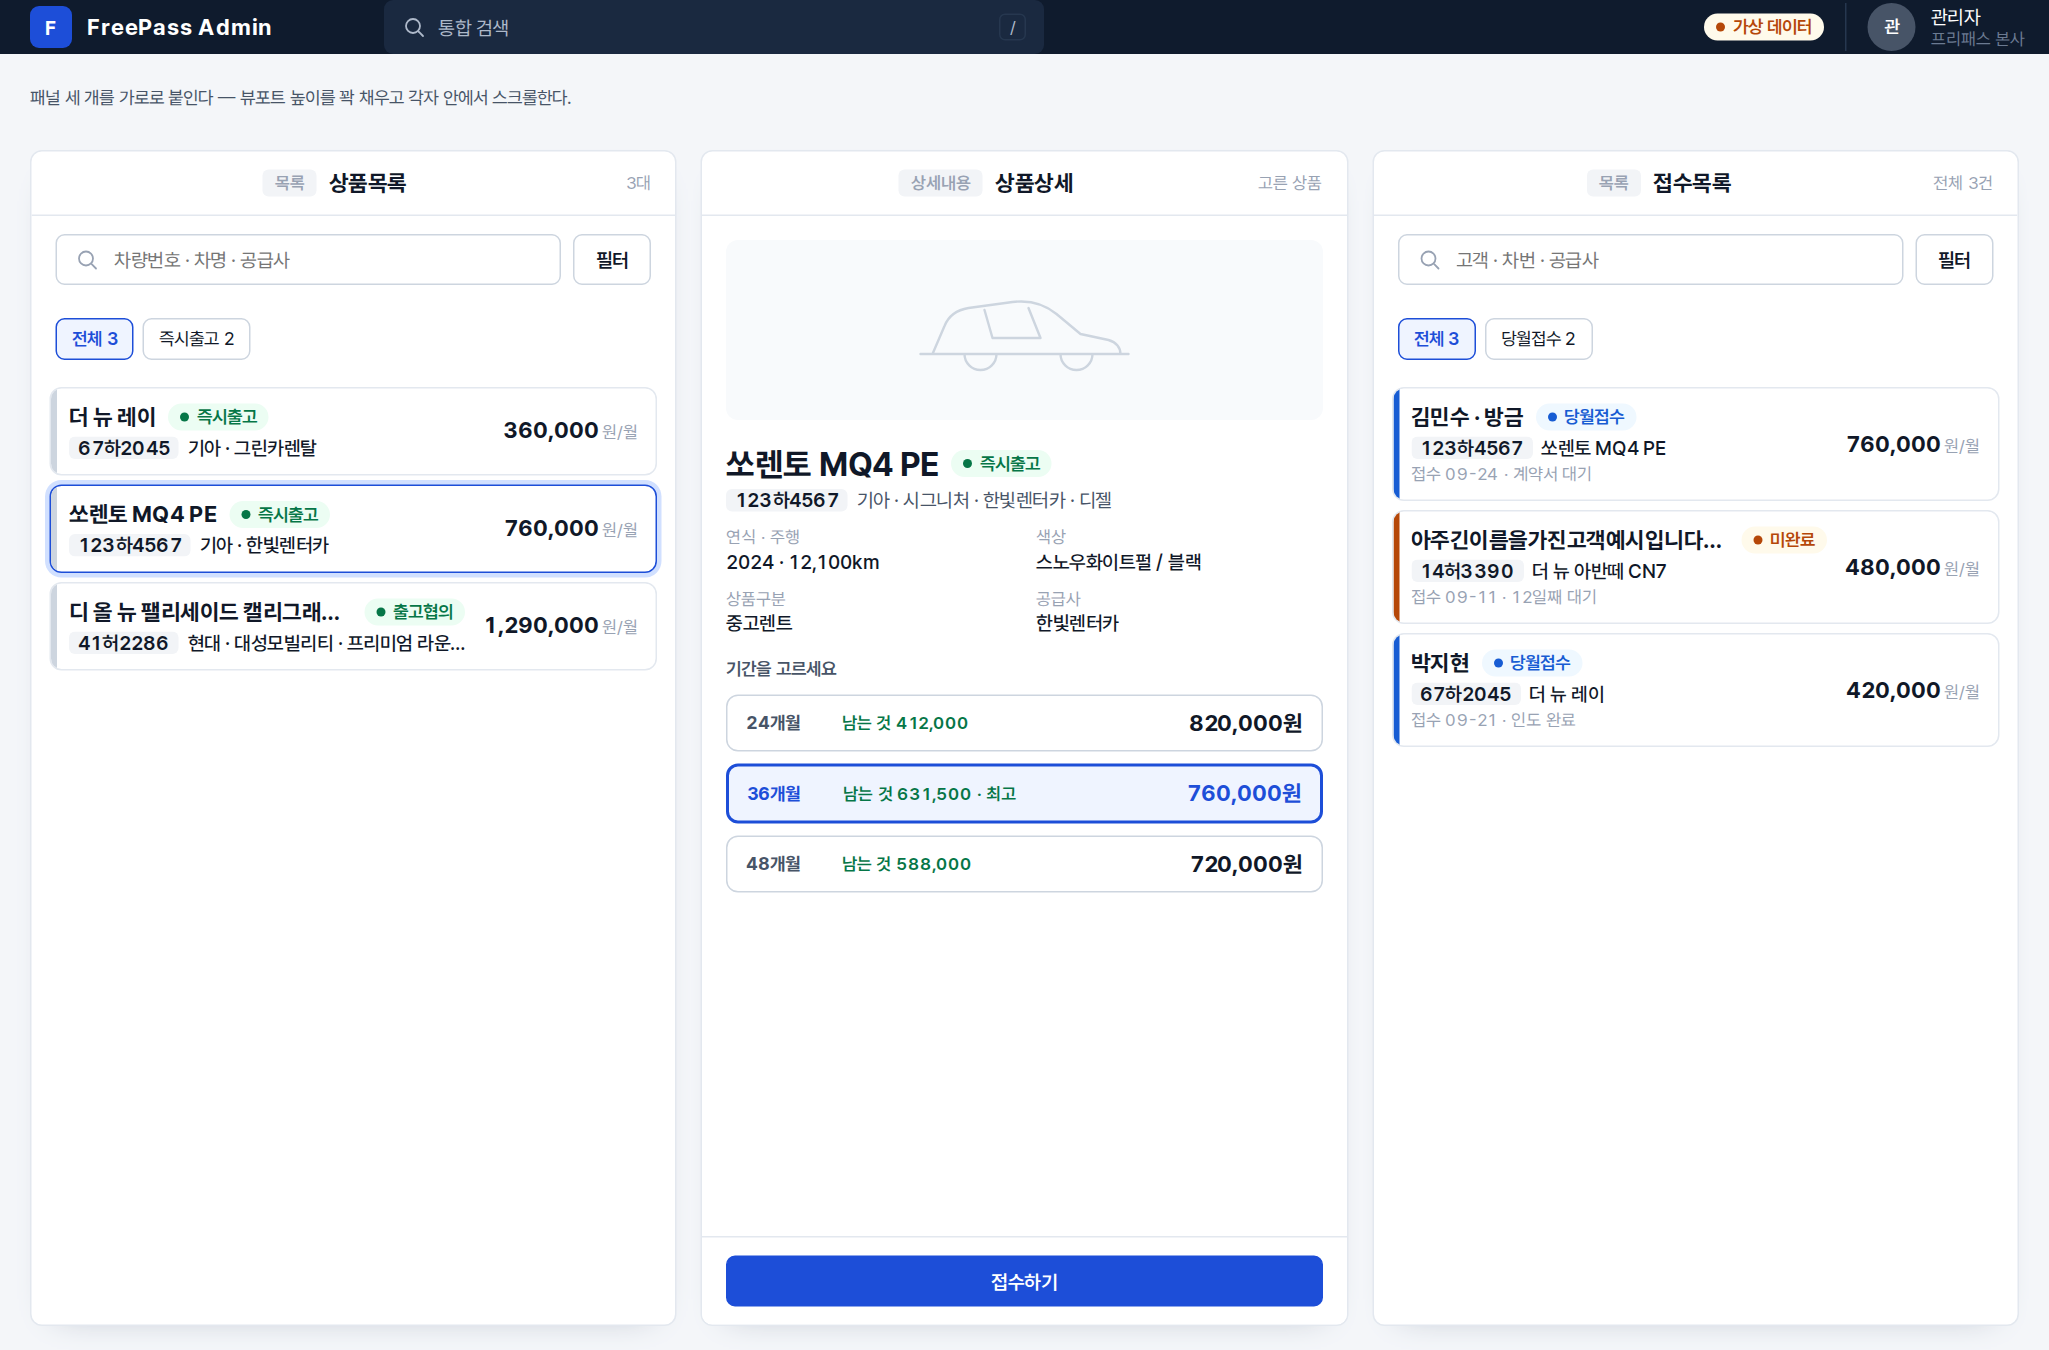
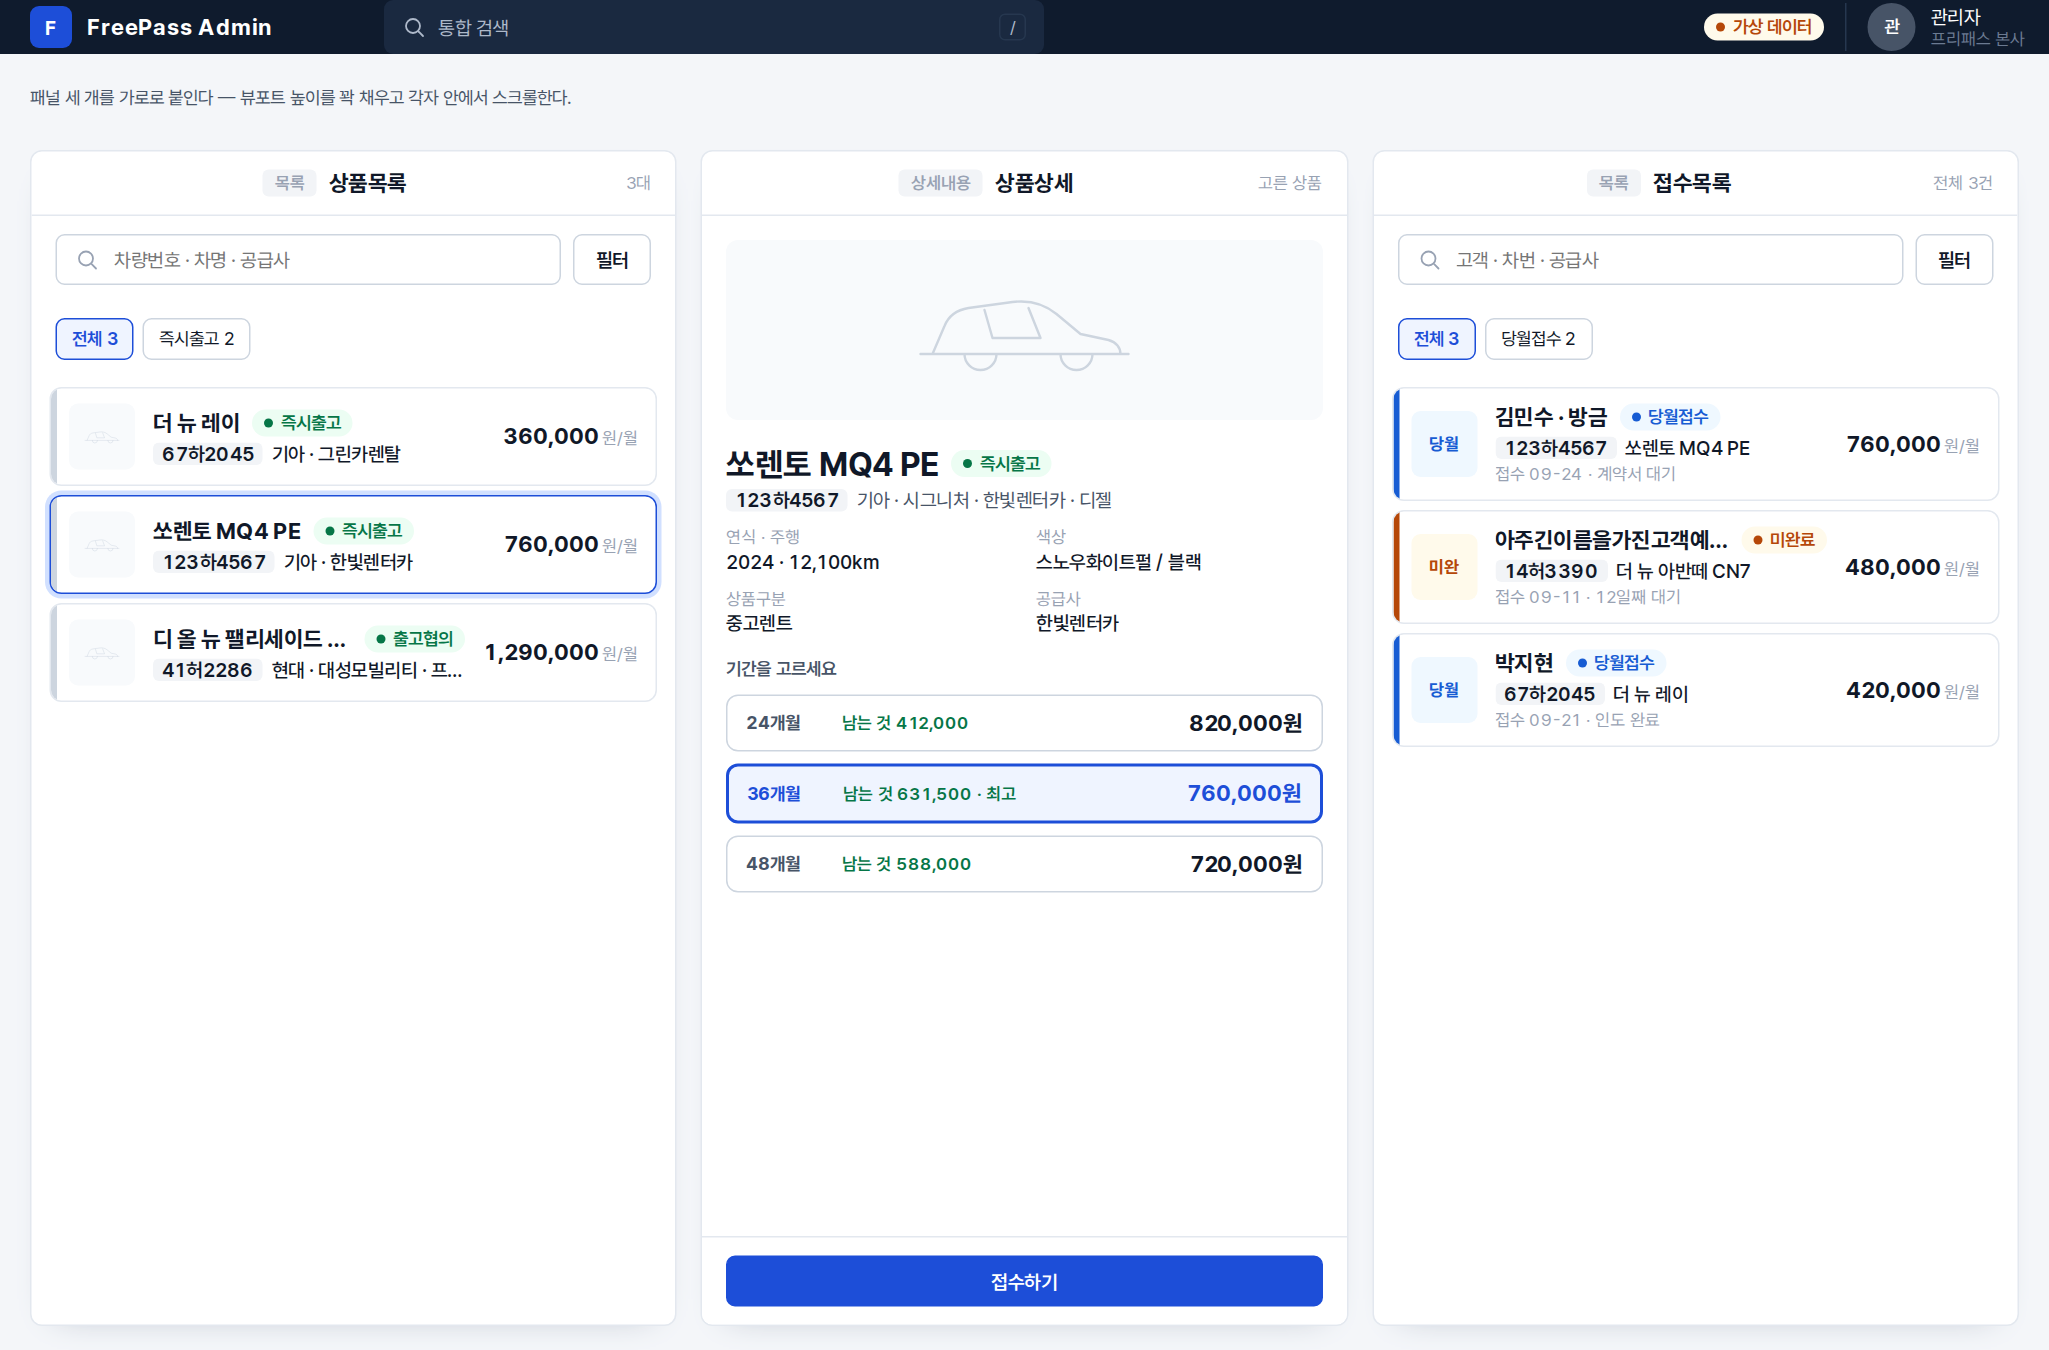
좁은 목록 카드에 썸네일 추가 — 상태 · 분류를 색으로 직관적으로
대표 지시 「차량사진 썸네일이랑 접수목록 정산목록 이런애들은 그 썸네일 쪽에
상태나 분류값 직관적으로」 반영. erp-panel--compact 카드에 44px 정사각
erp-rowcard-thumb 를 추가했다. 상품처럼 사진이 있는 대상은 차 아이콘,
접수 · 정산처럼 사진이 없는 대상은 새 아이콘을 만들지 않고 뱃지와 같은
톤 색(data-tone)을 썸네일에 칠하고 짧은 상태 글자를 넣어 색만 보고도
상태를 훑을 수 있게 했다.

Claude-Session: https://claude.ai/code/session_01VHqvSXhUy82o1cFFrYMP3F

Changed region(s): [[0.0, 0.28, 0.3436, 0.5289], [0.6872, 0.28, 0.8433, 0.56]]

diff --git a/design/erp-standard/reference/side-by-side.html b/design/erp-standard/reference/side-by-side.html
@@ -31,15 +31,15 @@
     <form class="erp-searchbar" data-region="filter" role="search"><label class="erp-search"><svg viewBox="0 0 24 24"><circle cx="11" cy="11" r="7"/><path d="m21 21-4.3-4.3"/></svg><input placeholder="차량번호 · 차명 · 공급사" aria-label="검색"></label><details class="erp-filter-more"><summary class="erp-btn">필터</summary></details></form>
     <div class="erp-toolbar" data-region="grid-toolbar"><div class="erp-facet-opts" role="group" aria-label="퀵 필터"><button class="erp-facet-opt" type="button" aria-pressed="true">전체 3</button><button class="erp-facet-opt" type="button" aria-pressed="false">즉시출고 2</button></div></div>
     <div class="erp-panel-body"><div class="erp-rowcards"><article class="erp-rowcard erp-rowcard--no-steps">
-    <div class="erp-rowcard-id"><h3 class="erp-rowcard-title"><a class="erp-rowcard-link" href="#">더 뉴 레이</a><span class="erp-badge erp-badge--ok">즉시출고</span></h3><div class="erp-rowcard-car"><b>67하2045</b>기아 · 그린카렌탈</div></div>
+    <div class="erp-rowcard-thumb"><svg viewBox="0 0 120 60" aria-hidden="true"><path d="M8 42h104M14 42l6-14c2-5 6-8 12-9l22-3c8-1 16 1 22 6l12 10 14 3c4 1 6 4 6 7M30 42a8 8 0 1 0 16 0M78 42a8 8 0 1 0 16 0M40 20l4 14h24l-6-15"/></svg></div><div class="erp-rowcard-id"><h3 class="erp-rowcard-title"><a class="erp-rowcard-link" href="#">더 뉴 레이</a><span class="erp-badge erp-badge--ok">즉시출고</span></h3><div class="erp-rowcard-car"><b>67하2045</b>기아 · 그린카렌탈</div></div>
     <dl class="erp-rowcard-facts"><div><dt>상품구분</dt><dd>중고렌트</dd></div><div><dt>기간</dt><dd>36개월</dd></div></dl>
     <div class="erp-rowcard-amount"><strong>360,000<small>원/월</small></strong></div><svg class="erp-rowcard-go" viewBox="0 0 24 24" aria-hidden="true"><path d="m9 6 6 6-6 6"/></svg>
   </article><article class="erp-rowcard erp-rowcard--no-steps" aria-current="true">
-    <div class="erp-rowcard-id"><h3 class="erp-rowcard-title"><a class="erp-rowcard-link" href="#">쏘렌토 MQ4 PE</a><span class="erp-badge erp-badge--ok">즉시출고</span></h3><div class="erp-rowcard-car"><b>123하4567</b>기아 · 한빛렌터카</div></div>
+    <div class="erp-rowcard-thumb"><svg viewBox="0 0 120 60" aria-hidden="true"><path d="M8 42h104M14 42l6-14c2-5 6-8 12-9l22-3c8-1 16 1 22 6l12 10 14 3c4 1 6 4 6 7M30 42a8 8 0 1 0 16 0M78 42a8 8 0 1 0 16 0M40 20l4 14h24l-6-15"/></svg></div><div class="erp-rowcard-id"><h3 class="erp-rowcard-title"><a class="erp-rowcard-link" href="#">쏘렌토 MQ4 PE</a><span class="erp-badge erp-badge--ok">즉시출고</span></h3><div class="erp-rowcard-car"><b>123하4567</b>기아 · 한빛렌터카</div></div>
     <dl class="erp-rowcard-facts"><div><dt>상품구분</dt><dd>중고렌트</dd></div><div><dt>기간</dt><dd>36개월</dd></div></dl>
     <div class="erp-rowcard-amount"><strong>760,000<small>원/월</small></strong></div><svg class="erp-rowcard-go" viewBox="0 0 24 24" aria-hidden="true"><path d="m9 6 6 6-6 6"/></svg>
   </article><article class="erp-rowcard erp-rowcard--no-steps">
-    <div class="erp-rowcard-id"><h3 class="erp-rowcard-title"><a class="erp-rowcard-link" href="#">디 올 뉴 팰리세이드 캘리그래피 롱레인지 4WD</a><span class="erp-badge erp-badge--ok">출고협의</span></h3><div class="erp-rowcard-car"><b>41허2286</b>현대 · 대성모빌리티 · 프리미엄 라운지 패키지</div></div>
+    <div class="erp-rowcard-thumb"><svg viewBox="0 0 120 60" aria-hidden="true"><path d="M8 42h104M14 42l6-14c2-5 6-8 12-9l22-3c8-1 16 1 22 6l12 10 14 3c4 1 6 4 6 7M30 42a8 8 0 1 0 16 0M78 42a8 8 0 1 0 16 0M40 20l4 14h24l-6-15"/></svg></div><div class="erp-rowcard-id"><h3 class="erp-rowcard-title"><a class="erp-rowcard-link" href="#">디 올 뉴 팰리세이드 캘리그래피 롱레인지 4WD</a><span class="erp-badge erp-badge--ok">출고협의</span></h3><div class="erp-rowcard-car"><b>41허2286</b>현대 · 대성모빌리티 · 프리미엄 라운지 패키지</div></div>
     <dl class="erp-rowcard-facts"><div><dt>상품구분</dt><dd>중고렌트</dd></div><div><dt>기간</dt><dd>36개월</dd></div></dl>
     <div class="erp-rowcard-amount"><strong>1,290,000<small>원/월</small></strong></div><svg class="erp-rowcard-go" viewBox="0 0 24 24" aria-hidden="true"><path d="m9 6 6 6-6 6"/></svg>
   </article></div></div>
@@ -76,16 +76,19 @@
     <form class="erp-searchbar" data-region="filter" role="search"><label class="erp-search"><svg viewBox="0 0 24 24"><circle cx="11" cy="11" r="7"/><path d="m21 21-4.3-4.3"/></svg><input placeholder="고객 · 차번 · 공급사" aria-label="검색"></label><details class="erp-filter-more"><summary class="erp-btn">필터</summary></details></form>
     <div class="erp-toolbar" data-region="grid-toolbar"><div class="erp-facet-opts" role="group" aria-label="퀵 필터"><button class="erp-facet-opt" type="button" aria-pressed="true">전체 3</button><button class="erp-facet-opt" type="button" aria-pressed="false">당월접수 2</button></div></div>
     <div class="erp-panel-body"><div class="erp-rowcards"><article class="erp-rowcard" data-tone="info">
+    <div class="erp-rowcard-thumb">당월</div>
     <div class="erp-rowcard-id"><h3 class="erp-rowcard-title"><a class="erp-rowcard-link" href="#">김민수 · 방금</a><span class="erp-badge erp-badge--info">당월접수</span></h3><div class="erp-rowcard-car"><b>123하4567</b>쏘렌토 MQ4 PE</div><div class="erp-rowcard-meta">접수 09-24 · 계약서 대기</div></div>
     <ol class="erp-rowcard-steps" aria-label="진행"><li data-state="done"><i></i>접수</li><li aria-current="step"><i></i>계약서</li><li><i></i>인도</li><li><i></i>청구</li><li><i></i>수금·지급</li></ol>
     <dl class="erp-rowcard-facts"><div><dt>공급사</dt><dd>한빛렌터카</dd></div><div><dt>상품·기간</dt><dd>장기렌트 · 36개월</dd></div><div><dt>영업채널</dt><dd>프리패스 직영</dd></div><div><dt>보증금</dt><dd>없음</dd></div></dl>
     <div class="erp-rowcard-amount"><strong>760,000<small>원/월</small></strong></div><svg class="erp-rowcard-go" viewBox="0 0 24 24" aria-hidden="true"><path d="m9 6 6 6-6 6"/></svg>
   </article><article class="erp-rowcard" data-tone="warn">
+    <div class="erp-rowcard-thumb">미완</div>
     <div class="erp-rowcard-id"><h3 class="erp-rowcard-title"><a class="erp-rowcard-link" href="#">아주긴이름을가진고객예시입니다홍길동</a><span class="erp-badge erp-badge--warn">미완료</span></h3><div class="erp-rowcard-car"><b>14허3390</b>더 뉴 아반떼 CN7</div><div class="erp-rowcard-meta">접수 09-11 · 12일째 대기</div></div>
     <ol class="erp-rowcard-steps" aria-label="진행"><li data-state="done"><i></i>접수</li><li aria-current="step"><i></i>계약서</li><li><i></i>인도</li><li><i></i>청구</li><li><i></i>수금·지급</li></ol>
     <dl class="erp-rowcard-facts"><div><dt>공급사</dt><dd>한빛렌터카</dd></div><div><dt>상품·기간</dt><dd>장기렌트 · 12개월</dd></div><div><dt>영업채널</dt><dd>서울중앙지점</dd></div><div><dt>보증금</dt><dd>없음</dd></div></dl>
     <div class="erp-rowcard-amount"><strong>480,000<small>원/월</small></strong></div><svg class="erp-rowcard-go" viewBox="0 0 24 24" aria-hidden="true"><path d="m9 6 6 6-6 6"/></svg>
   </article><article class="erp-rowcard" data-tone="info">
+    <div class="erp-rowcard-thumb">당월</div>
     <div class="erp-rowcard-id"><h3 class="erp-rowcard-title"><a class="erp-rowcard-link" href="#">박지현</a><span class="erp-badge erp-badge--info">당월접수</span></h3><div class="erp-rowcard-car"><b>67하2045</b>더 뉴 레이</div><div class="erp-rowcard-meta">접수 09-21 · 인도 완료</div></div>
     <ol class="erp-rowcard-steps" aria-label="진행"><li data-state="done"><i></i>접수</li><li data-state="done"><i></i>계약서</li><li data-state="done"><i></i>인도</li><li aria-current="step"><i></i>청구</li><li><i></i>수금·지급</li></ol>
     <dl class="erp-rowcard-facts"><div><dt>공급사</dt><dd>그린카렌탈</dd></div><div><dt>상품·기간</dt><dd>장기렌트 · 12개월</dd></div><div><dt>영업채널</dt><dd>프리패스 직영</dd></div><div><dt>보증금</dt><dd>없음</dd></div></dl>

diff --git a/design/erp-standard/erp.css b/design/erp-standard/erp.css
@@ -439,11 +439,21 @@
  * 여기서는 상태(뱃지)와 고르는 데 필요한 최소 식별 정보 + 금액까지만 — steps 트래커 · facts 는 상세내용 패널 몫이라 뺀다.
  * 모든 대상(상품 · 접수 · 실적 · 정산)이 폭 · 줄 수와 무관하게 같은 두 줄 규격으로 통일된다. */
 .erp-panel--compact .erp-rowcards { padding: var(--erp-sp-2) var(--erp-sp-3) var(--erp-sp-3); gap: 6px; background: transparent; }
-.erp-panel--compact .erp-rowcard { grid-template-columns: minmax(0, 1fr) auto; grid-template-areas: "id amount"; align-items: center; gap: 2px var(--erp-sp-3); padding: 10px var(--erp-sp-3); }
+.erp-panel--compact .erp-rowcard { grid-template-columns: 44px minmax(0, 1fr) auto; grid-template-areas: "thumb id amount"; align-items: center; gap: 2px var(--erp-sp-3); padding: 10px var(--erp-sp-3); }
 .erp-panel--compact .erp-rowcard-steps, .erp-panel--compact .erp-rowcard-facts { display: none; }
 .erp-panel--compact .erp-rowcard-amount { text-align: right; }
 .erp-panel--compact .erp-rowcard-amount strong { font-size: var(--erp-fs-section); }
 .erp-panel--compact .erp-rowcard-go { display: none; }
+/* 썸네일 — 상품은 사진(차 아이콘), 접수 · 정산처럼 사진이 없는 대상은 같은 자리에 상태색을 칠해
+ * 글자를 읽지 않아도 상태가 한눈에 들어오게 한다(대표 2026-09-24 「썸네일 쪽에 상태나 분류값 직관적으로」).
+ * data-tone 이 있으면(접수 · 정산 카드) 뱃지와 같은 색을 썸네일 배경에 칠하고 짧은 상태 글자를 넣는다 —
+ * 새 아이콘을 안 만들고 이미 있는 뱃지 톤 색만 재사용한다. */
+.erp-panel--compact .erp-rowcard-thumb { grid-area: thumb; width: 44px; height: 44px; display: grid; place-items: center; border-radius: var(--erp-r-md); background: var(--erp-color-sunken); color: var(--erp-color-line-strong); font-size: var(--erp-fs-caption); font-weight: var(--erp-fw-bold); }
+.erp-panel--compact .erp-rowcard-thumb svg { width: 26px; height: 26px; stroke: currentColor; fill: none; stroke-width: 1.4; }
+.erp-panel--compact .erp-rowcard[data-tone="ok"] .erp-rowcard-thumb { background: var(--erp-color-ok-bg); color: var(--erp-color-ok); }
+.erp-panel--compact .erp-rowcard[data-tone="info"] .erp-rowcard-thumb { background: var(--erp-color-info-bg); color: var(--erp-color-info); }
+.erp-panel--compact .erp-rowcard[data-tone="warn"] .erp-rowcard-thumb { background: var(--erp-color-warn-bg); color: var(--erp-color-warn); }
+.erp-panel--compact .erp-rowcard[data-tone="err"] .erp-rowcard-thumb { background: var(--erp-color-err-bg); color: var(--erp-color-err); }
 /* 검색창 · 퀵 필터 줄 밑의 구분선 — 좁은 패널에서 검색창 바로 밑에 퀵 필터가 붙으면서 선 두 개가 다닥다닥
  * 붙어 지저분해졌다(대표 2026-09-24 「검색창이랑 목록카드 사이에 라인 없애자」). 좁은 패널에서는 지운다 —
  * 카드 목록의 sunken 배경색만으로도 위 검색 영역과 구분이 된다. */

diff --git a/design/erp-standard/README.md b/design/erp-standard/README.md
@@ -294,6 +294,13 @@ facts 는 상세내용 패널 몫이라 compact 에서는 아예 뺀다(`display
 (`erp-panel--compact`)에서는 두 선을 다 지운다 — 카드 목록의 sunken 배경색만으로도 위 검색 영역과
 충분히 구분된다. 넓은 패널은 원안 구분선 그대로 쓴다. 확인 그림: `images/side-by-side.png`.
 
+**목록 카드 — 썸네일에 상태 · 분류를 직관적으로** (대표 2026-09-24 「차량사진 썸네일이랑 접수목록 정산목록
+이런애들은 그 썸네일 쪽에 상태나 분류값 직관적으로」). 좁은 목록 카드(`erp-panel--compact`) 왼쪽에 44px
+정사각 `erp-rowcard-thumb`를 추가했다. **상품**처럼 사진이 있는 대상은 차 아이콘을 넣고, **접수 · 정산**
+처럼 사진이 없고 상태가 중요한 대상은 새 아이콘을 만드는 대신 뱃지와 같은 톤 색(`data-tone` → ok/info/
+warn/err 배경 · 글자색)을 썸네일에 칠하고 짧은 상태 글자(「당월」·「미완」 등)를 넣었다 — 글을 안 읽고
+색만 봐도 지금 이 카드가 어떤 상태인지 훑을 수 있다. 확인 그림: `images/side-by-side.png`.
+
 **버튼 · 배지 규격과 위아래 간격 정리** (대표 2026-09-24 「필터 버튼도 버튼이잖아 … 배지 규격 · 버튼 규격 · 상하 간격이
 되게 중요한 것 같아」). `side-by-side.html`에 두 군데 규격 이탈이 있었다 — 목록 패널의 「필터」 버튼을 `erp-btn--sm`
 (28px)으로 줄여서 옆 `erp-search` 검색창(34px, `--erp-btn-h`)과 높이가 안 맞았고, 퀵 필터 줄(`erp-toolbar`)의
